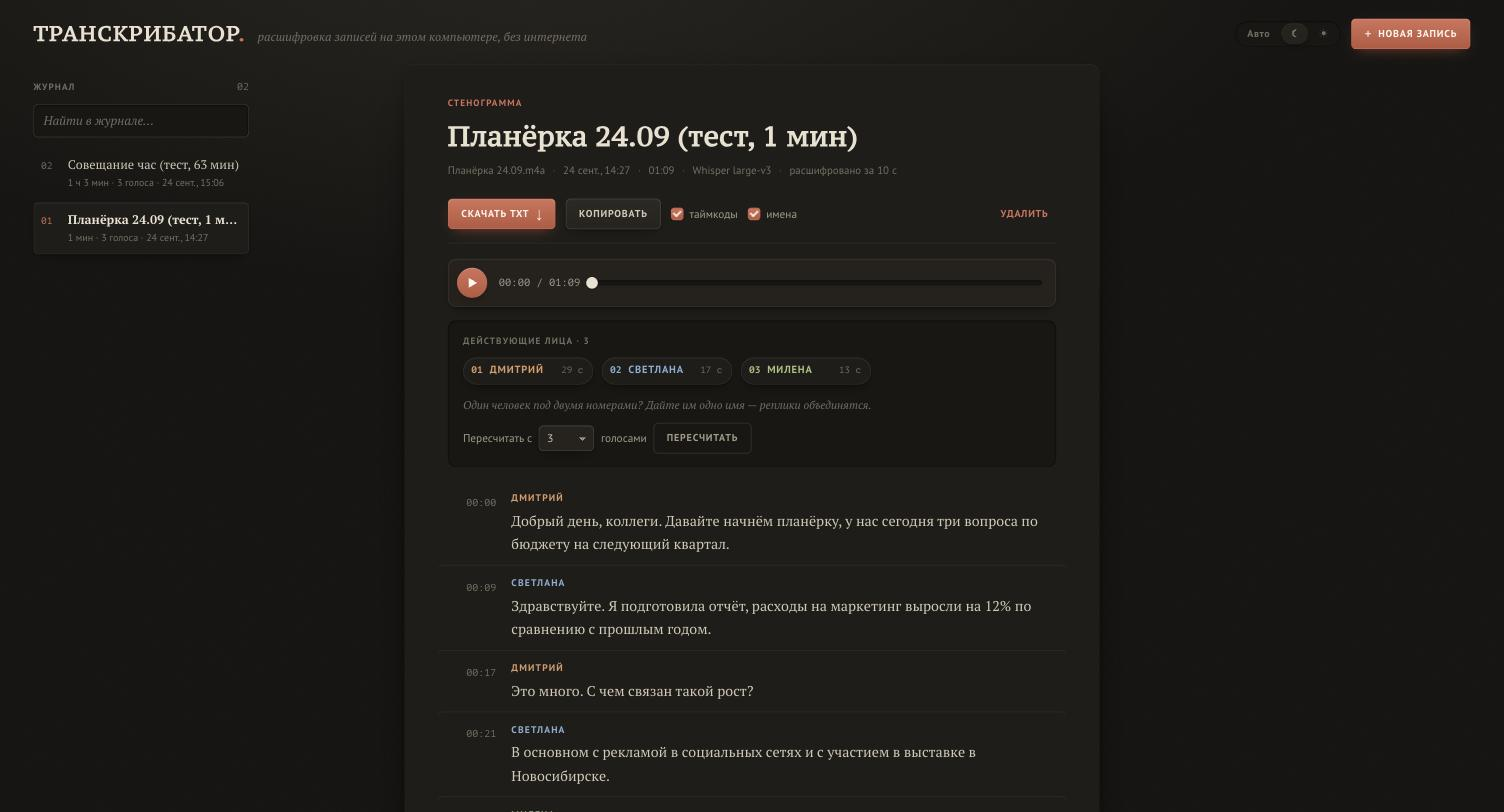
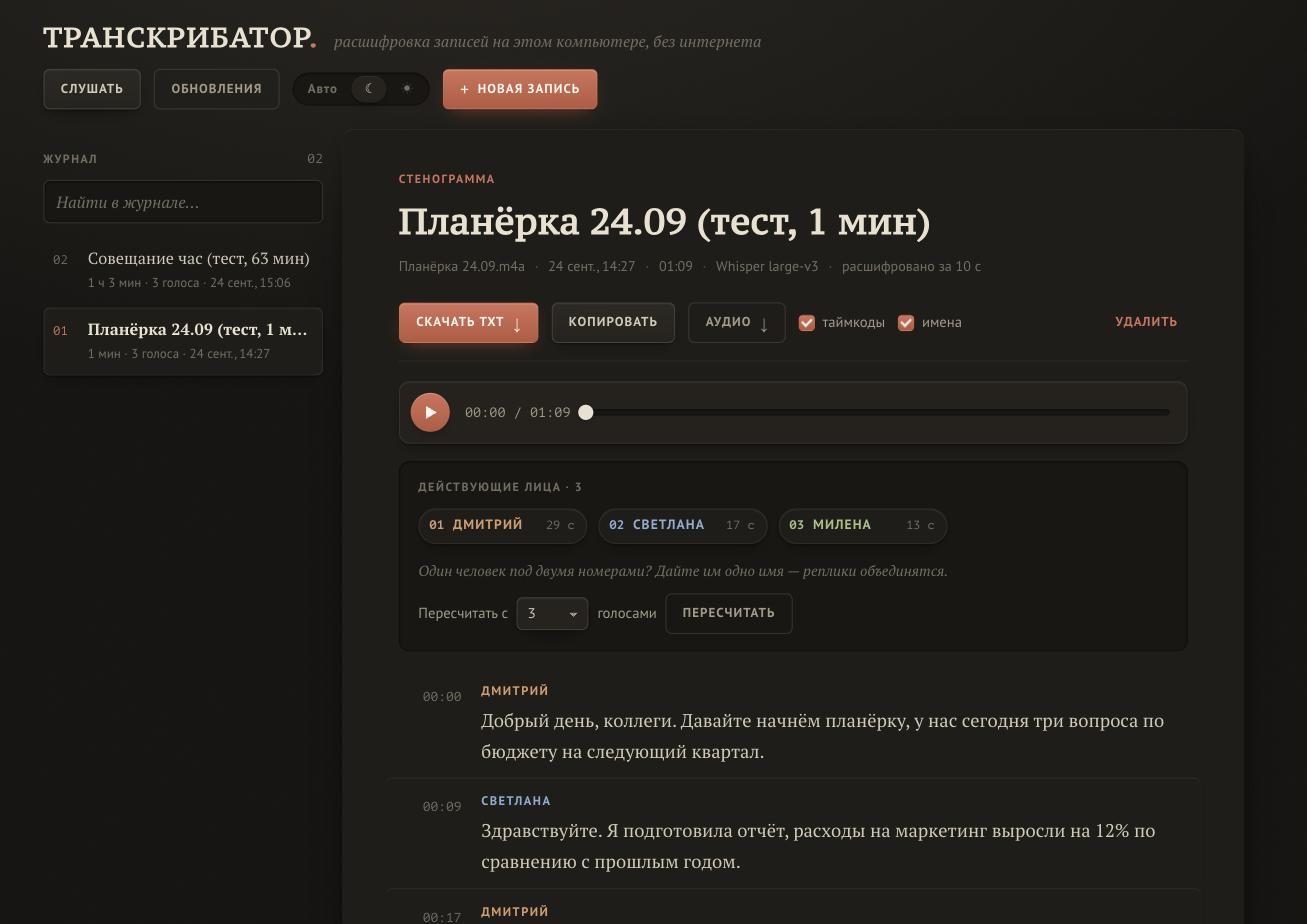
README: «Слушать» в возможностях и свежие скриншоты
- «Слушать» — вторым пунктом возможностей, со ссылкой на подробное описание.
- Новые скриншоты интерфейса (тёмная и светлая темы) и экрана записи звука компьютера.

diff --git a/README.md b/README.md
@@ -13,11 +13,12 @@
 ## Возможности
 
 - **Точное распознавание русской речи** — модель Whisper large-v3 (ошибок в словах ≈ 2–3 % на чистой записи).
+- **«Слушать» — запись звука компьютера:** собеседники в Zoom / Teams / Telegram, вебинар, видео — именно звук устройства,
+  не микрофон. Пауза, продолжение, сохранение в журнал; расшифровать или скачать аудио — сразу из того же окна.
+  macOS 14.2+ и Windows 10/11 ([подробнее](#запись-звука-компьютера-слушать)).
 - **Разделение по говорящим** — автоматически или по заданному числу людей; имена можно вписать прямо в стенограмму.
 - **Любые форматы:** m4a с диктофона iPhone (AAC и ALAC), mp3, wav, ogg, opus, flac, а также видео (mp4, mov…).
 - **Длинные записи:** час и больше — обрабатываются частями, разрезы делаются в паузах, слова не теряются.
-- **«Слушать» — запись звука, который играет компьютер** (созвон, вебинар, видео), а не микрофона: пауза,
-  продолжение, сохранение в журнал, расшифровка и скачивание аудио из того же окна. macOS 14.2+ и Windows 10/11.
 - **История** всех расшифровок и записей, поиск, встроенный плеер (клик по времени — перемотка).
 - **Выгрузка в TXT** целиком — с таймкодами и именами или без.
 - **Тёмная и светлая темы**, режим «как в системе».
@@ -74,6 +75,8 @@ bash install.sh          # macOS / Linux
    - **«Скачать TXT»** — вся стенограмма целиком.
 
 ## Запись звука компьютера («Слушать»)
+
+![Слушать — запись звука компьютера](docs/screenshot-listen.jpg)
 
 Кнопка **«Слушать»** в шапке записывает то, что **звучит на компьютере**: собеседников в Zoom, Teams, Telegram,
 вебинар, видео. Микрофон не используется — ваш собственный голос в запись не попадает (если нужен, включите
